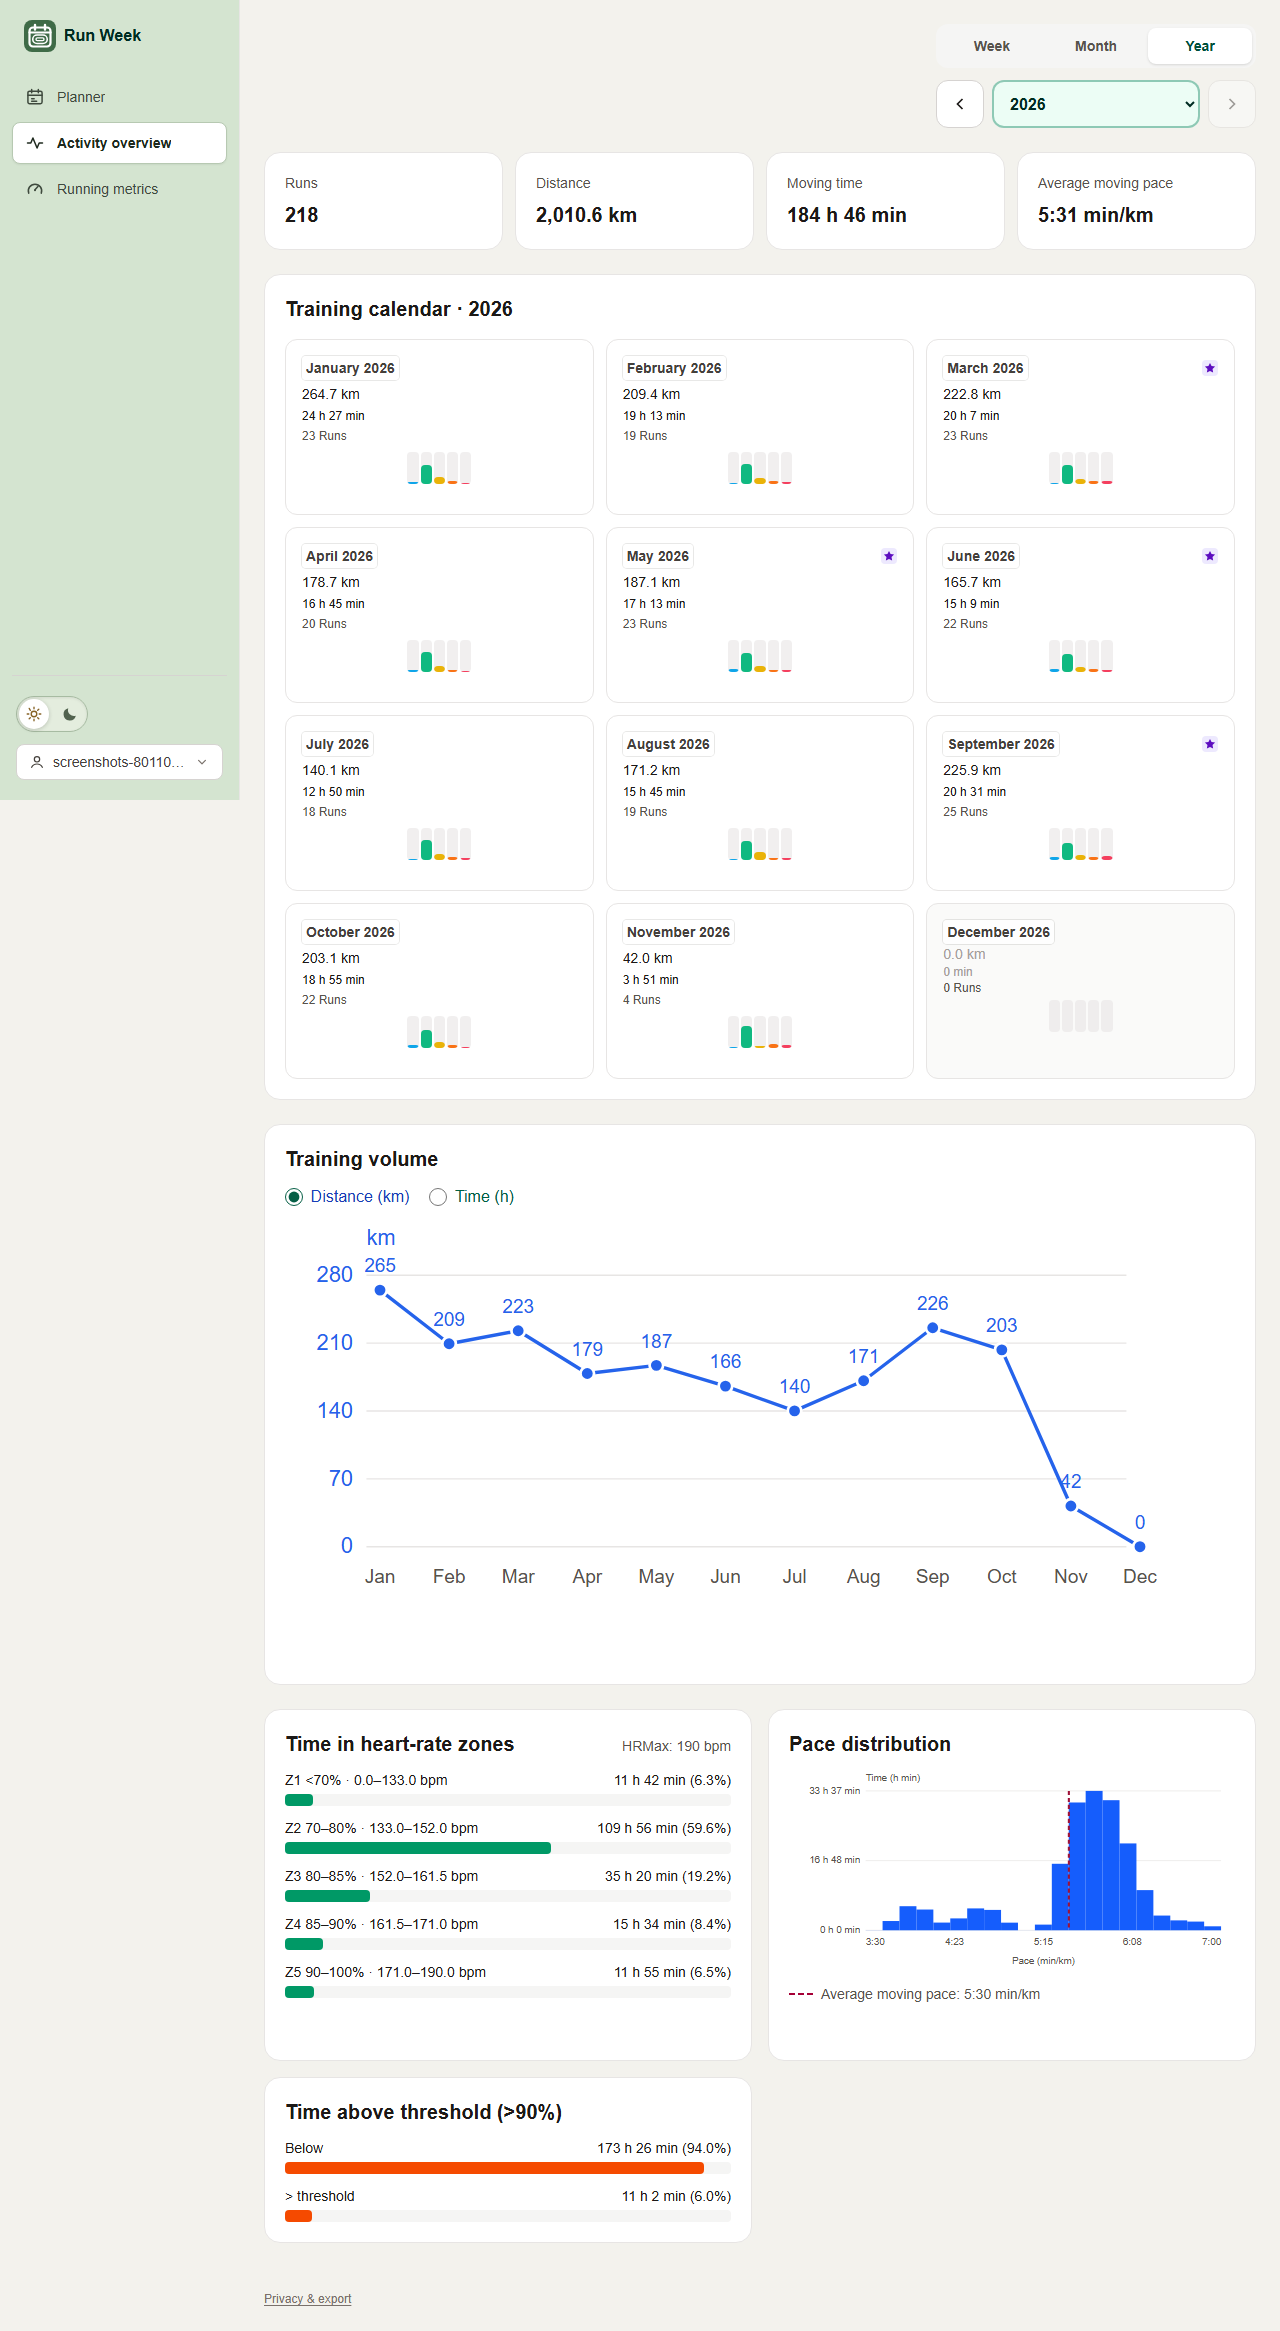
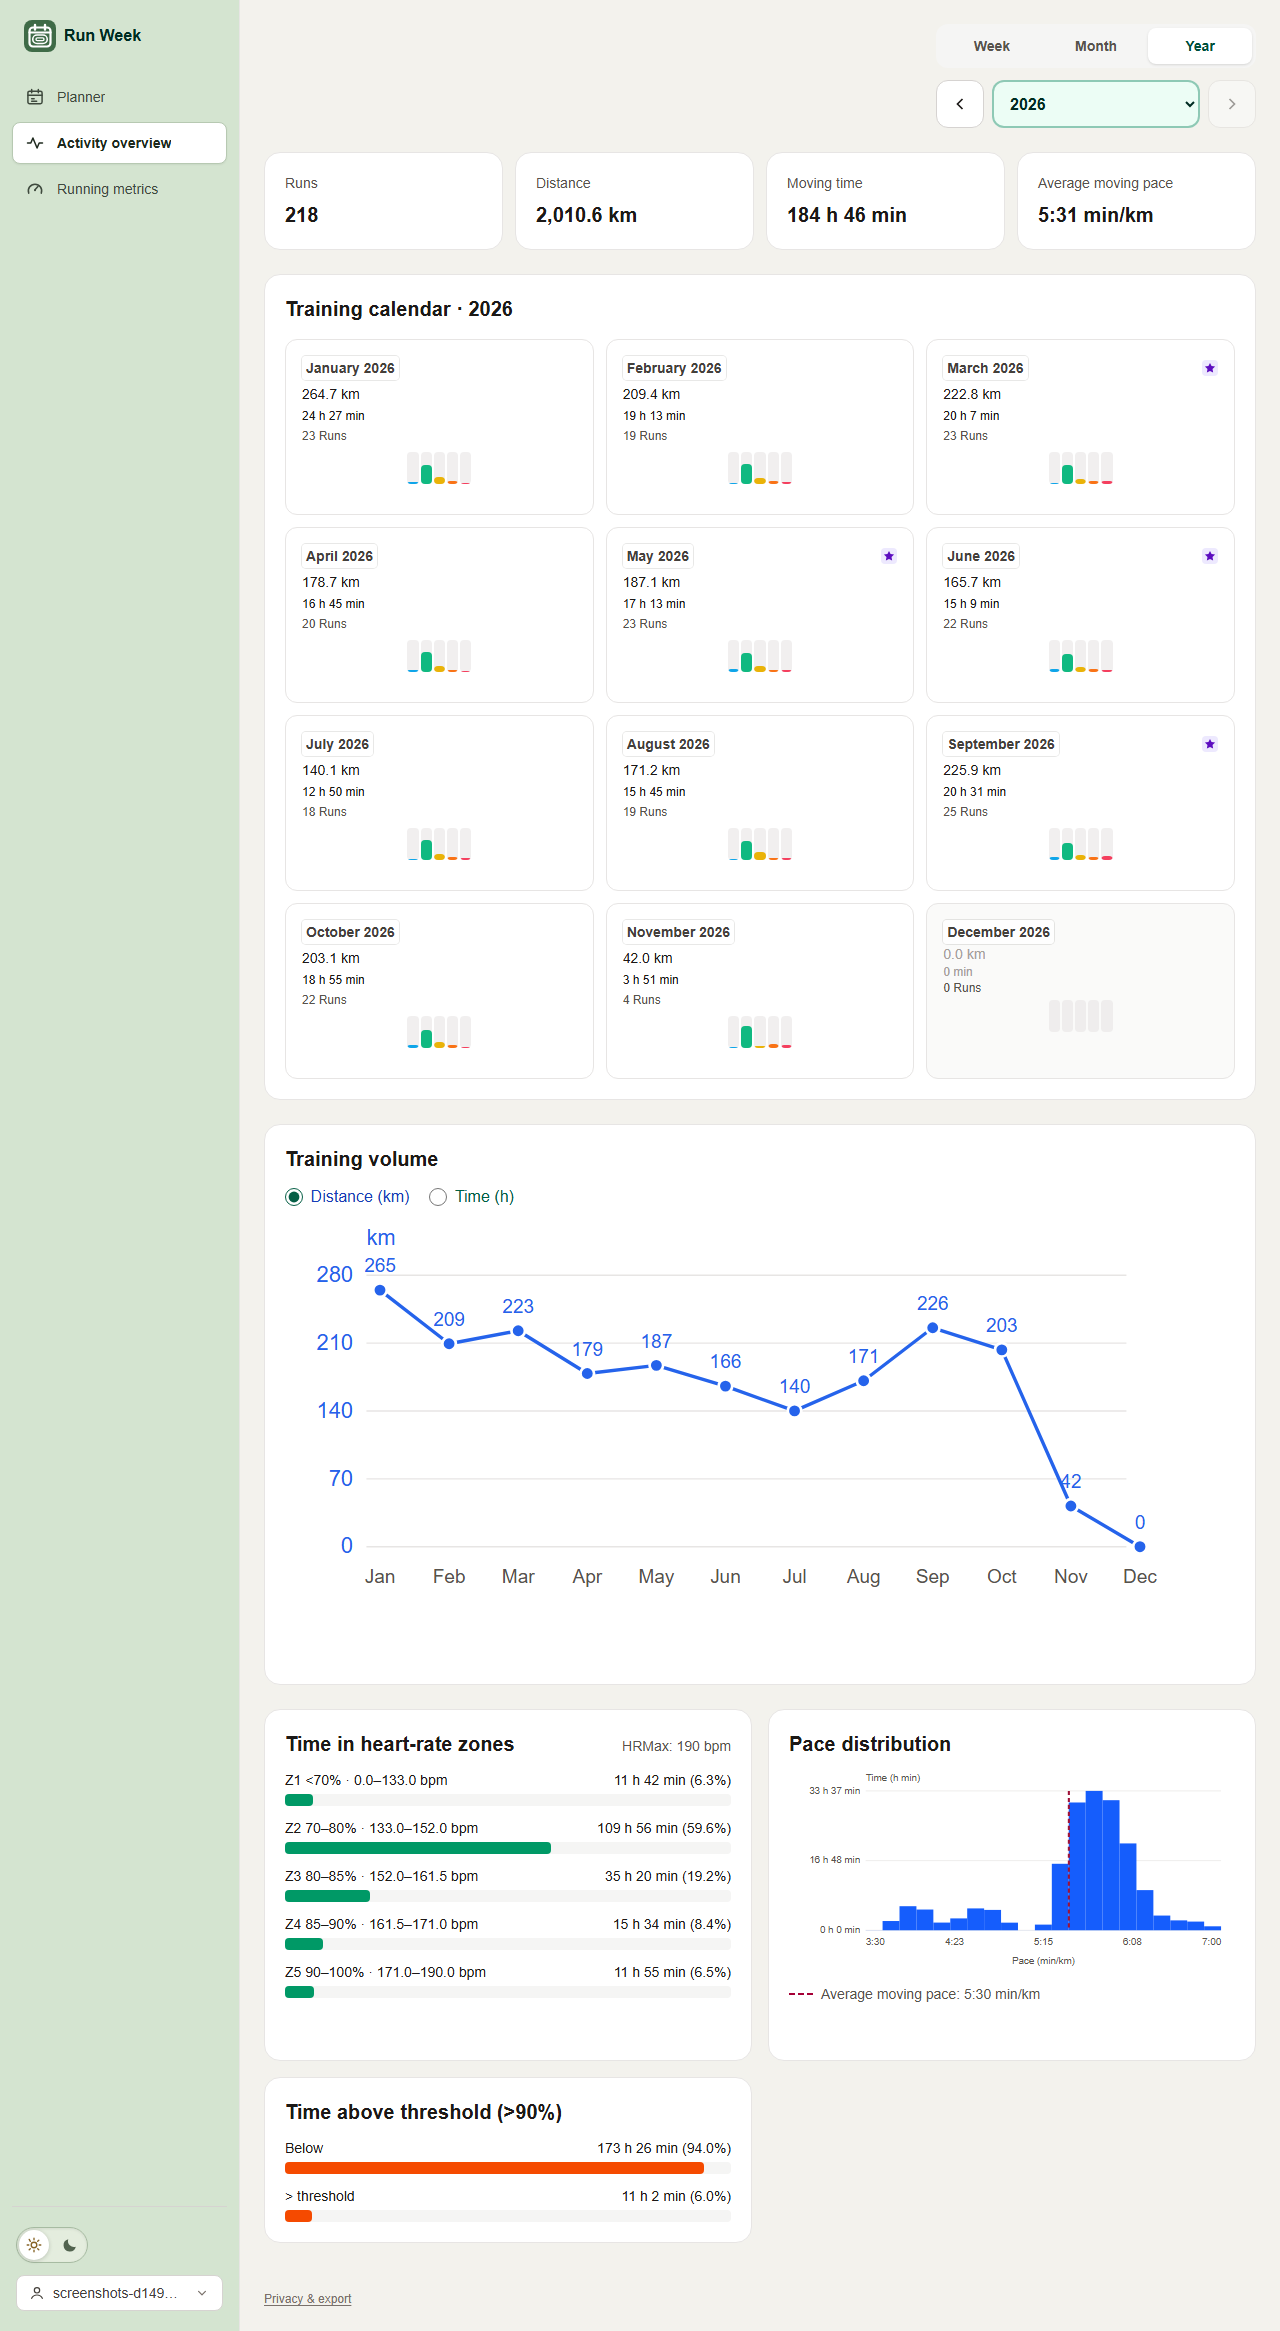
chore: update screenshots and add an introduction to the app in the readme

Changed region(s): [[0.0, 0.278, 0.1875, 1.0]]

diff --git a/e2e/screenshots.spec.ts b/e2e/screenshots.spec.ts
@@ -151,19 +151,29 @@ async function settle(page: Page) {
   await page.evaluate(() => document.fonts.ready);
   await page.waitForTimeout(400);
 }
+/** Grows the viewport to the page height, so the full-height sidebar spans long pages. */
+async function fitViewport(page: Page) {
+  const height = await page.evaluate(() => document.documentElement.scrollHeight);
+  await page.setViewportSize({ width: DESKTOP.width, height: Math.max(DESKTOP.height, height) });
+  await settle(page);
+}
 async function shot(page: Page, name: string, fullPage = false) {
   await settle(page);
-  await page.screenshot({ path: `${OUT}/${name}.png`, fullPage });
+  if (fullPage) await fitViewport(page);
+  await page.screenshot({ path: `${OUT}/${name}.png` });
+  if (fullPage) await page.setViewportSize(DESKTOP);
 }
-/** Captures the page area spanning the given elements, plus a margin. */
+/** Captures the page area spanning the given elements, plus a margin; content only unless it starts at the top. */
 async function region(page: Page, name: string, from: Locator, to: Locator) {
   await settle(page);
-  const [top, bottom] = [await from.boundingBox(), await to.boundingBox()];
-  if (!top || !bottom) throw new Error(`Missing screenshot region for ${name}`);
-  const scroll = await page.evaluate(() => window.scrollY);
-  const y = Math.max(0, top.y + scroll - 16);
-  await page.screenshot({ path: `${OUT}/${name}.png`, fullPage: true,
-    clip: { x: 0, y, width: DESKTOP.width, height: bottom.y + scroll + bottom.height + 16 - y } });
+  await fitViewport(page);
+  const [top, bottom, main] = [await from.boundingBox(), await to.boundingBox(), await page.getByRole("main").boundingBox()];
+  if (!top || !bottom || !main) throw new Error(`Missing screenshot region for ${name}`);
+  const y = Math.max(0, top.y - 16);
+  const x = y === 0 ? 0 : main.x;
+  await page.screenshot({ path: `${OUT}/${name}.png`,
+    clip: { x, y, width: DESKTOP.width - x, height: bottom.y + bottom.height + 16 - y } });
+  await page.setViewportSize(DESKTOP);
 }
 
 test.use({ viewport: DESKTOP, colorScheme: "light" });
@@ -190,6 +200,11 @@ test("documentation screenshots", async ({ page }) => {
   await expect(page.getByRole("dialog")).toBeVisible();
   await shot(page, "workout-details");
   await page.keyboard.press("Escape");
+  await page.evaluate(() => localStorage.setItem("run-week-theme", "dark"));
+  await page.reload();
+  await expect(page.locator("html")).toHaveAttribute("data-theme", "dark");
+  await shot(page, "week-dark");
+  await page.evaluate(() => localStorage.setItem("run-week-theme", "light"));
   await page.goto("/privacy");
   await shot(page, "privacy");
   await page.goto("/signin");
@@ -236,7 +251,4 @@ test("documentation screenshots", async ({ page }) => {
   await expect(page.locator("html")).toHaveAttribute("data-theme", "dark");
   await expect(calendar.locator("[data-week]").first()).toBeVisible();
   await shot(page, "activities-dark");
-  await page.goto("/planner");
-  await createWeek(page);
-  await shot(page, "week-dark");
 });

diff --git a/README.md b/README.md
@@ -1,10 +1,47 @@
 # Run Week
 
+## What it does
+
+Run Week helps runners plan a training week and review the runs they have
+done. It works in ten languages, in light or dark mode, on desktop and mobile.
+
+- **Training week simulator.** Enter a recent race result, a weekly distance or
+  time target, and either the days you run or the number of runs per week.
+  Run Week estimates your VDOT with Jack Daniels' formulas and builds a week of
+  easy runs, a long run and optional interval or threshold workouts, with
+  target paces and workout details. You can choose which workouts to include and
+  set preferred days.
+- **Garmin Connect.** With an account, send the whole week or a single run to
+  your Garmin Connect calendar as structured workouts for your watch.
+- **Activity overview.** Connect Strava to see your runs in a week, month or
+  year calendar, with training volume, heart-rate zones, pace distribution and
+  time above threshold. Each activity has heart-rate and pace graphs.
+- **Running metrics.** Estimates of critical speed, VMA and threshold pace from
+  race or test efforts you mark, along with endurance indicators based on your
+  training history.
+
+An account is optional: the planner works signed out and is saved in the
+browser. Signing in, by email code or Google, saves the planner to your account
+and enables Garmin and Strava. Plans and metrics come from published
+formulas and simple rules. They are descriptive, not personalized coaching or
+medical advice.
+
+## Tech stack
+
 A running planner built with Next.js App Router, React, TypeScript, Tailwind
 CSS and ESLint, with optional accounts (Auth.js, PostgreSQL through Prisma).
 
-The header's sun/moon switch toggles light and dark mode. The choice is saved
-in this browser, and the sliding animation respects reduced-motion preferences.
+Pages are listed in a left sidebar on wide screens and in a top bar on narrow
+ones. The sun/moon switch in the sidebar (or top bar) toggles light and dark
+mode. The choice is saved in this browser, and the sliding animation respects
+reduced-motion preferences.
+
+## Screenshots
+
+Activity screenshots use synthetic data. Regenerate them all with
+`npm run screenshots` (needs Docker, like the end-to-end tests).
+
+### Planner
 
 ![Setup form](docs/screenshots/setup.png)
 
@@ -12,13 +49,35 @@ in this browser, and the sliding animation respects reduced-motion preferences.
 
 ![Workout details](docs/screenshots/workout-details.png)
 
-Activity screenshots use synthetic data.
+![Weekly plan in dark mode](docs/screenshots/week-dark.png)
 
-![Activities calendar](docs/screenshots/activities-calendar.png)
+### Activities
+
+![Activities month calendar](docs/screenshots/activities-calendar.png)
+
+![Activity graphs: training volume, heart-rate zones, pace distribution and threshold time](docs/screenshots/activities-graphs.png)
+
+![Activities week view](docs/screenshots/activities-week.png)
+
+![Activities year view](docs/screenshots/activities-year.png)
 
 ![Activity details with heart-rate and pace graphs](docs/screenshots/activity-details.png)
 
-![Activity graphs: training volume, heart-rate zones, pace distribution and threshold time](docs/screenshots/activities-graphs.png)
+![Activities calendar in dark mode](docs/screenshots/activities-dark.png)
+
+### Running metrics
+
+![Running metrics: speed, endurance, critical speed, VMA and threshold estimates](docs/screenshots/running-metrics.png)
+
+### Account, consent and privacy
+
+![Sign-in page](docs/screenshots/signin.png)
+
+![Strava connection consent](docs/screenshots/strava-consent.png)
+
+![Garmin Connect consent](docs/screenshots/garmin-consent.png)
+
+![Privacy and data controls](docs/screenshots/privacy.png)
 
 ## Getting started
 
@@ -638,6 +697,7 @@ Strava importer, without its single-athlete storage, auth fallback or AI code.
 | `npm run db:migrate` | Create and apply a migration in development (`prisma migrate dev`) |
 | `npm run db:deploy` | Apply pending migrations in production (`prisma migrate deploy`) |
 | `npm run test:e2e` | Run the Playwright end-to-end tests (see [End-to-end tests](#end-to-end-tests)) |
+| `npm run screenshots` | Regenerate the README screenshots in `docs/screenshots` with synthetic data (needs Docker) |
 
 ## Structure
 
